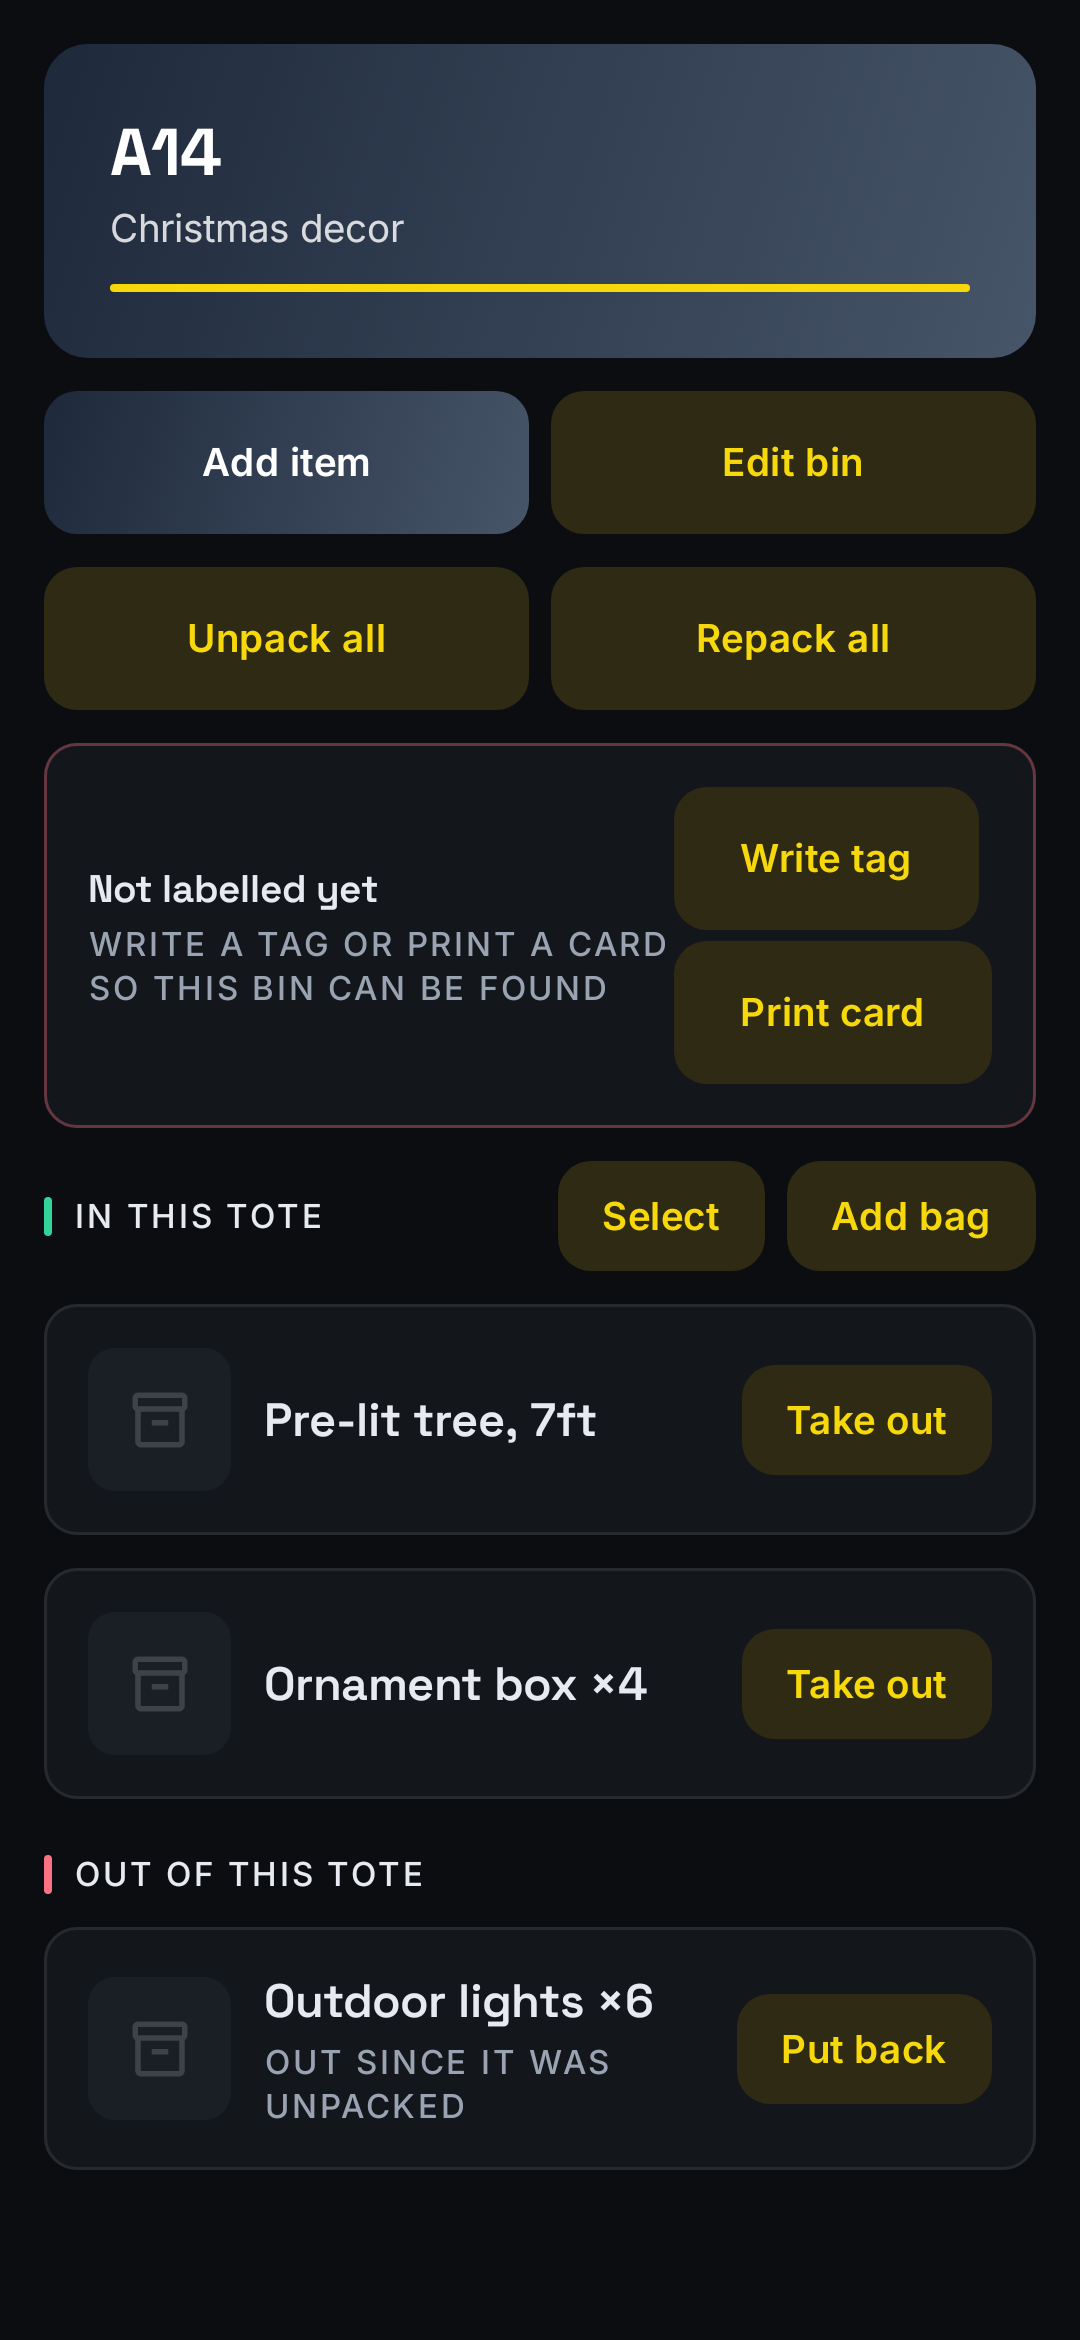
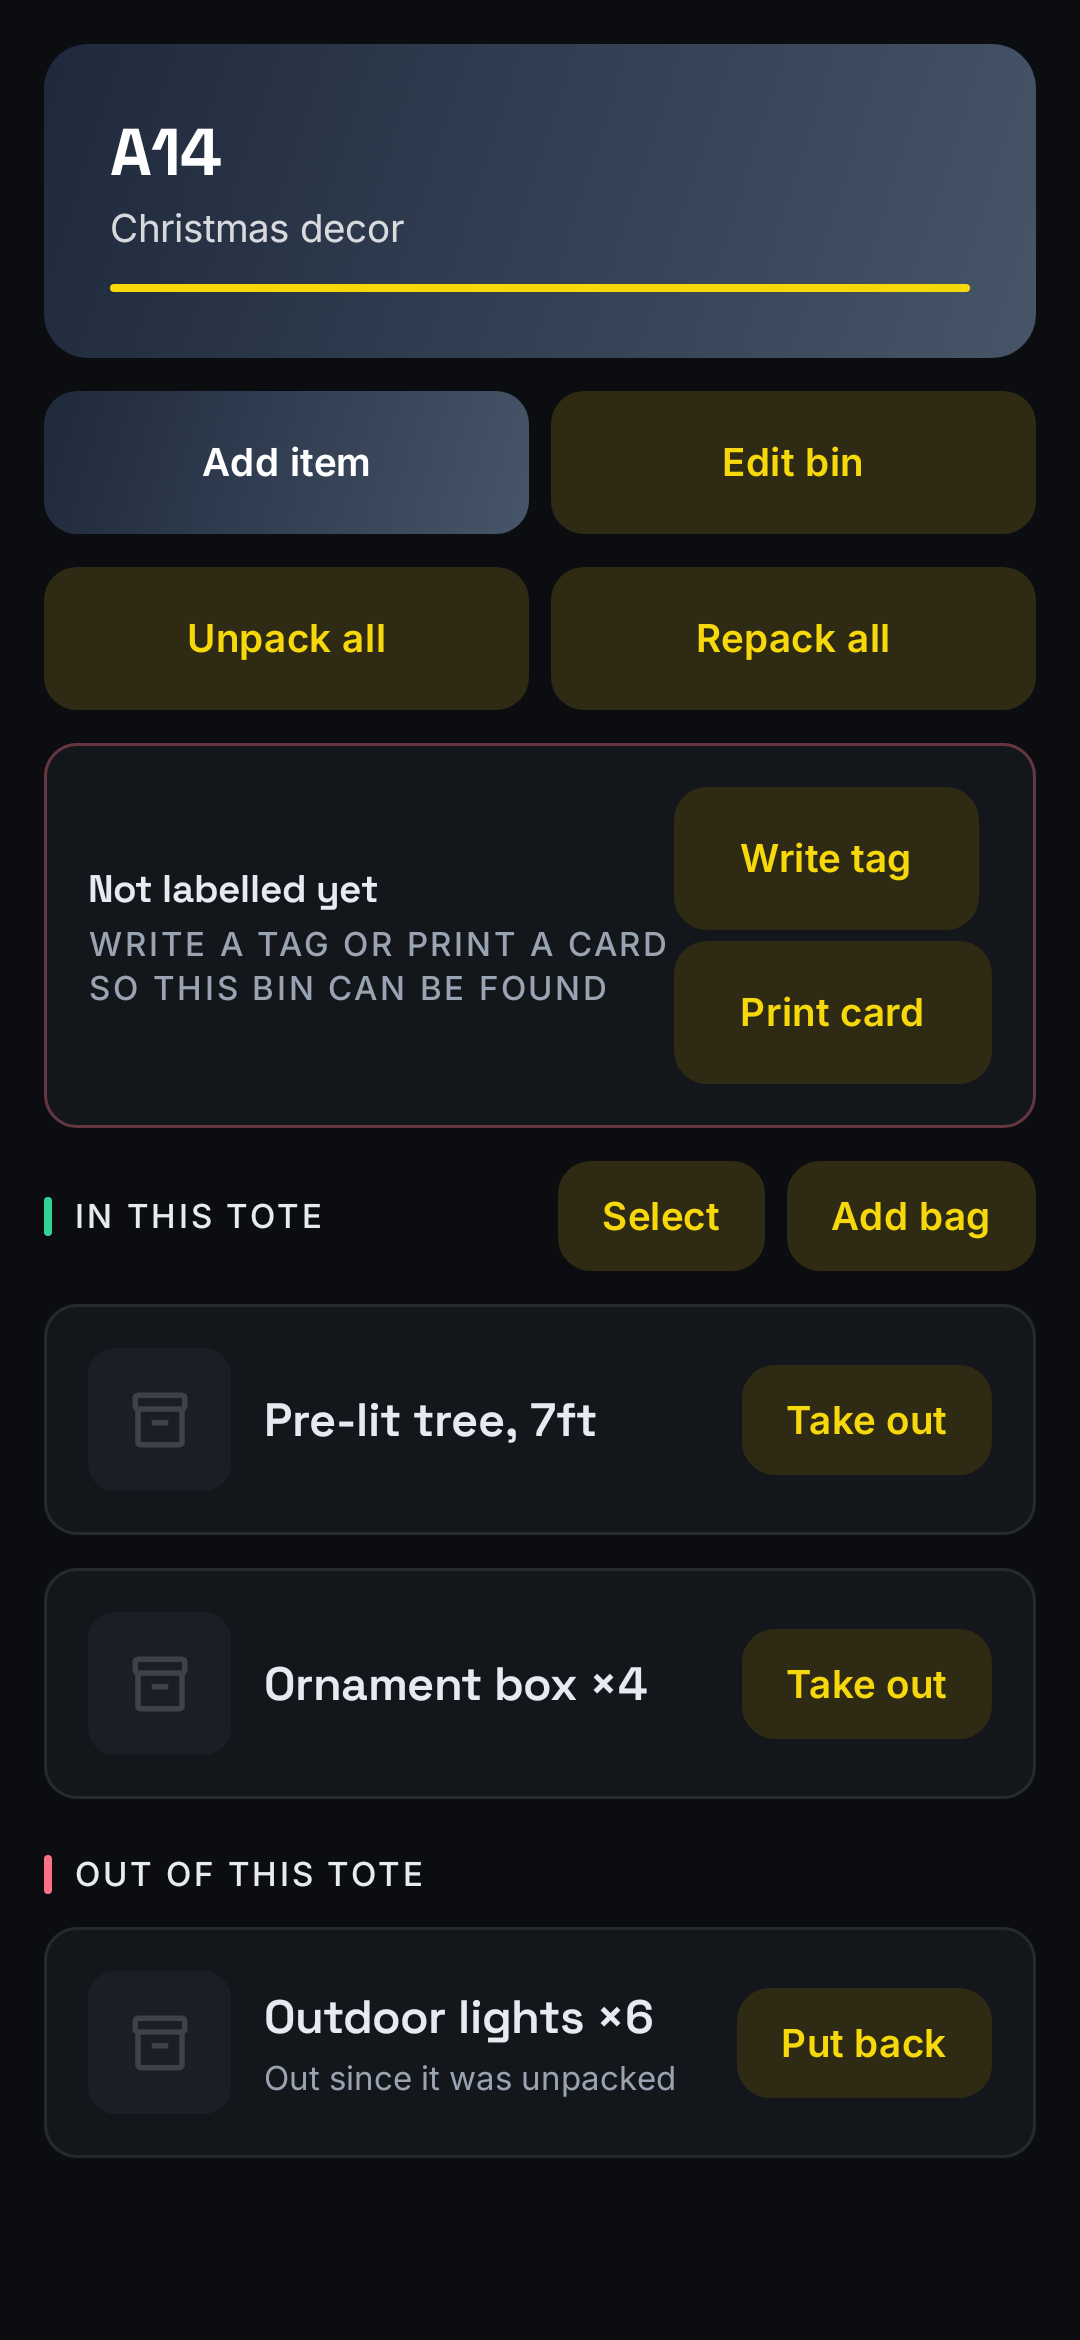
Bare infant months on the ladder; the bin row tells its garments apart
Both found by reading the owner's real catalogue, not by a test.

`3m`, `6m` and `9m` were missing from `_INFANT_MONTHS`, left out on the
reasoning that infant clothing is sold in ranges — while `12M`/`18M`/`24M`
were bare points from the start, so the table disagreed with itself as well
as with the world. Four garments in the first real bin of baby clothes were
typed `6m`, parsed to nothing and were therefore invisible to `fits`: the
silent failure the ladder exists to prevent. The new points are the midpoints
of the ranges either side of them, `36m` lands where `3T` does, and two tests
pin the twelve-rung ordering as strictly increasing and all distinct.

On the bin screen every row read `Shirt` with a thumbnail. The sentence that
tells them apart was on the DTO and rendered only inside the item sheet, one
tap away on each of them. It is on the row now, two lines of it — twenty
characters does not separate "Navy blue sleeves…" from "Navy blue with
white…" — and the size is its own mark rather than the first words of the
grey caption it shared with the loan status. Which also removes the reason
people were typing the size into the name.

311 server tests, 174 Android. New baselines in both themes: the light one
separately, because the size mark is the first place the provenance violet
carries text at data-type size.

Claude-Session: https://claude.ai/code/session_01VgWuH4CggxCGnsHqaYpVUL

Changed region(s): [[0.2444, 0.8423, 0.6111, 0.9047], [0.7028, 0.8423, 0.8861, 0.9047], [0.1222, 0.8423, 0.1833, 0.9047]]

diff --git a/android/app/src/main/java/com/tote/ui/totes/ToteDetailScreen.kt b/android/app/src/main/java/com/tote/ui/totes/ToteDetailScreen.kt
@@ -791,15 +791,48 @@ private fun ItemRow(
                     item.status == "out" -> "Out since it was unpacked"
                     else -> null
                 }
-                // The tag's own words, joined to the status rather than stacked under it. This
-                // is the line someone reads while holding an open bin, and every extra row on it
-                // costs a garment's worth of scrolling.
-                val sub = listOfNotNull(item.apparel?.sizeRaw, status).joinToString(" · ")
-                if (sub.isNotEmpty()) {
+                // The description, on the row at last.
+                //
+                // It was carried on every DTO and shown only inside the item sheet, which is fine
+                // until a bin holds six garments all honestly called "Shirt". As text those rows
+                // were identical and only the thumbnail told them apart; the sentence that DOES
+                // tell them apart — "yellow and green construction digger" — was one tap away on
+                // each of them. Found on the owner's first real bin of baby clothes.
+                //
+                // Two lines, for the same reason the name gets two: the thumbnail, the size and the
+                // action leave this column about twenty characters wide, and one line of that is
+                // "Navy blue sleeves, li…" against "Navy blue with white s…" — which is the failure
+                // this line exists to prevent, just moved a few words later. It only costs height
+                // on the rows whose descriptions are long enough to need it.
+                val detail = listOfNotNull(status, item.description).joinToString(" · ")
+                if (detail.isNotEmpty()) {
                     Spacer(Modifier.height(spacing.xs))
-                    Caption(text = sub)
+                    Text(
+                        detail,
+                        style = MaterialTheme.typography.bodySmall,
+                        color = MaterialTheme.colorScheme.onSurfaceVariant,
+                        maxLines = 2,
+                        overflow = TextOverflow.Ellipsis,
+                    )
                 }
             }
+            // The size, as its own mark rather than the first word of a caption.
+            //
+            // For a bin of children's clothing this is the single most-read fact on the screen —
+            // the whole app exists to answer "which bin has the 4T coats" — and it was competing
+            // with the loan status in a dim grey run-on line. Prominent enough here that the size
+            // does not need repeating in the name, which is what was happening: "Shirt 12m" over
+            // a caption reading "12M".
+            item.apparel?.sizeRaw?.let { size ->
+                Spacer(Modifier.width(spacing.sm))
+                Text(
+                    size,
+                    style = ToteTheme.dataType.dataSmall,
+                    color = colors.provenance.base,
+                    maxLines = 1,
+                )
+            }
+
             // ONE action on the row — the everyday one. Lending and deleting live in the
             // sheet behind a tap: a second button here costs the name the width it needs, and
             // a destructive action next to an everyday one is a mis-tap away from deleting a

diff --git a/android/app/src/test/java/com/tote/screenshot/ScreenshotTest.kt b/android/app/src/test/java/com/tote/screenshot/ScreenshotTest.kt
@@ -957,6 +957,62 @@ class ScreenshotTest {
         )
     }
 
+
+    /**
+     * The bin the owner actually built: six garments honestly called "Shirt", told apart only by
+     * the sentence that was one tap away on each of them.
+     */
+    @Test fun tote_detail_same_name_dark() = capture("tote_detail_same_name_dark", dark = true) {
+        ToteDetailContent(
+            tote = sameNameBin(),
+            onAddItem = {}, onUnpackAll = {}, onRepackAll = {}, onTakeOut = {}, onPutBack = {},
+        )
+    }
+
+    /**
+     * The same bin in light.
+     *
+     * Worth its own baseline rather than trusting the dark one: the size mark is the first place
+     * the provenance violet carries *text* at data-type size, and the two themes are separate
+     * channel palettes — a ratio that holds against charcoal says nothing about one against white.
+     */
+    @Test fun tote_detail_same_name_light() = capture("tote_detail_same_name_light", dark = false) {
+        ToteDetailContent(
+            tote = sameNameBin(),
+            onAddItem = {}, onUnpackAll = {}, onRepackAll = {}, onTakeOut = {}, onPutBack = {},
+        )
+    }
+
+    private fun sameNameBin() = ToteDetailDto(
+        id = "t1",
+        code = "A15",
+        label = "Baby clothes",
+        locationName = "Attic",
+        itemCount = 4,
+        items = listOf(
+            ItemDto(
+                id = "a", name = "Shirt", quantity = 1, status = "stored",
+                description = "Yellow and green construction digger graphic",
+                apparel = ApparelDto(sizeRaw = "12m"),
+            ),
+            ItemDto(
+                id = "b", name = "Shirt", quantity = 1, status = "stored",
+                description = "Navy blue sleeves, light grey body",
+                apparel = ApparelDto(sizeRaw = "12m"),
+            ),
+            ItemDto(
+                id = "c", name = "Onesie", quantity = 1, status = "stored",
+                description = "Red, printed text reading LADIES MAN",
+                apparel = ApparelDto(sizeRaw = "12m"),
+            ),
+            ItemDto(
+                id = "d", name = "Shorts", quantity = 6, status = "stored",
+                description = "Navy blue with white stripes down the side",
+                apparel = ApparelDto(sizeRaw = "6m"),
+            ),
+        ),
+    )
+
     // LoginContent is the stateless body precisely so it can be captured here: the stateful
     // LoginScreen needs Hilt and a real AppAuth service, neither of which exists in a JVM test.
     @Test fun login_light() =

diff --git a/server/tests/test_sizing.py b/server/tests/test_sizing.py
@@ -46,6 +46,15 @@ PARSES = [
     ("12M", None, SYSTEM_INFANT_MONTHS),
     ("18 mo", None, SYSTEM_INFANT_MONTHS),
     ("24M", None, SYSTEM_INFANT_MONTHS),
+    # Bare month points. These were missing while 12M/18M/24M were present, on the reasoning that
+    # infant clothing is sold in ranges — found in production with four garments typed "6m"
+    # parsing to nothing, so `fits` could not see them.
+    ("3m", None, SYSTEM_INFANT_MONTHS),
+    ("6m", None, SYSTEM_INFANT_MONTHS),
+    ("9M", None, SYSTEM_INFANT_MONTHS),
+    ("6 months", None, SYSTEM_INFANT_MONTHS),
+    ("15M", None, SYSTEM_INFANT_MONTHS),
+    ("36 mo", None, SYSTEM_INFANT_MONTHS),
     ("2T", None, SYSTEM_TODDLER),
     ("3t", None, SYSTEM_TODDLER),
     ("4T", None, SYSTEM_TODDLER),
@@ -336,3 +345,25 @@ def test_photo_role_rank_keeps_the_tag_last():
     # An unknown role sorts ahead of the tag, so pre-roles items keep their original order.
     assert photo_role_rank(None) < photo_role_rank("tag")
     assert photo_role_rank("something-new") == photo_role_rank(None)
+
+
+def test_a_bare_month_sits_between_the_ranges_either_side_of_it():
+    """The ranges were already the midpoints of points that did not exist.
+
+    3-6m is 0.375 because it sits between 3m (0.25) and 6m (0.5). Adding the bare points had to
+    preserve that or an item typed "6m" would sort on the wrong side of one typed "3-6m", which
+    is worse than not parsing at all — a wrong ordinal sends someone to the wrong bin twice.
+    """
+    order = ["NB", "0-3m", "3m", "3-6m", "6m", "6-9m", "9m", "9-12m", "12m", "15m", "18m", "24m"]
+    ordinals = [parse_size(raw).ordinal for raw in order]
+    assert ordinals == sorted(ordinals), ordinals
+    assert len(set(ordinals)) == len(ordinals), "every rung is distinct"
+
+
+def test_36_months_lands_where_3T_does():
+    """One shared axis is the whole point: the same body gets the same ordinal whichever system
+    the tag happens to use."""
+    assert parse_size("36m").ordinal == parse_size("3T").ordinal
+    # But the SYSTEM is still reported honestly — they are not the same garment vocabulary.
+    assert parse_size("36m").system == SYSTEM_INFANT_MONTHS
+    assert parse_size("3T").system == SYSTEM_TODDLER

diff --git a/server/app/sizing/ladder.py b/server/app/sizing/ladder.py
@@ -103,15 +103,30 @@ _COMPARABLE_PAIRS: frozenset[frozenset[str]] = frozenset(
 # Children's ordinals ARE approximate age in years. Written out rather than computed so the
 # 6X row can exist at all, and so every value is reviewable against a tag.
 
+# The axis is years of approximate body size, so 12m is 1.0 and the RANGES are the midpoints of
+# the bare points either side of them: 3-6m sits at 0.375 between 3m (0.25) and 6m (0.5).
+#
+# The bare points used to be missing for 3, 6 and 9 months, on the reasoning that infant clothing
+# is sold in ranges. Real tags and real people do not agree: found in production with four garments
+# typed "6m" and parsing to nothing, which meant `fits` could not see them at all — the silent
+# failure the whole ladder exists to prevent. 12m/18m/24m were already here, so the table was
+# inconsistent with itself as well as with the world.
 _INFANT_MONTHS: dict[str, float] = {
     "nb": 0.0,
     "0-3m": 0.125,
+    "3m": 0.25,
     "3-6m": 0.375,
+    "6m": 0.5,
     "6-9m": 0.625,
+    "9m": 0.75,
     "9-12m": 0.875,
     "12m": 1.0,
+    "15m": 1.25,
     "18m": 1.5,
     "24m": 2.0,
+    # Written on some tags instead of 3T, and it lands on the same ordinal 3T does — which is
+    # the point of one shared axis.
+    "36m": 3.0,
 }
 
 _TODDLER: dict[str, float] = {"2t": 2.0, "3t": 3.0, "4t": 4.0, "5t": 5.0}
@@ -198,9 +213,14 @@ _MONTH_ALIASES = {
     "3_6_months": "3-6m",
     "6_9_months": "6-9m",
     "9_12_months": "9-12m",
+    "3_months": "3m",
+    "6_months": "6m",
+    "9_months": "9m",
     "12_months": "12m",
+    "15_months": "15m",
     "18_months": "18m",
     "24_months": "24m",
+    "36_months": "36m",
 }
 
 # Departments that make a bare number unambiguous. See `parse_size`.

diff --git a/ARCHITECTURE.md b/ARCHITECTURE.md
@@ -1563,6 +1563,26 @@ department there is nothing in the string to tell them apart, so `parse_size` re
 to the bin, a wrong ordinal sends them to the wrong bin twice. A department resolves it (`8` under
 `girls` is a youth 8) because that is evidence, not a guess.
 
+### A bare month is not the same trade — it was a hole
+
+`3m`, `6m` and `9m` were **missing** from `_INFANT_MONTHS`, on the reasoning that infant clothing
+is sold in ranges (`0-3M`, `3-6M`). Real tags and real people do not agree, and the table was
+already inconsistent with itself: `12M`, `18M` and `24M` were bare points from the start.
+
+Found in production, which is the part worth recording. Four garments in the owner's first real
+bin of baby clothes were typed `6m`, parsed to nothing, and were therefore invisible to `fits` —
+the exact silent failure the ladder exists to prevent, and one nothing in CI could have caught
+because it needs somebody to type what is on an actual tag.
+
+The bare points are the **midpoints of the ranges either side of them**: `3-6m` sits at 0.375
+between `3m` (0.25) and `6m` (0.5), so a range and its endpoints interleave in tag order rather
+than colliding. `36m` is here too — some tags say it instead of `3T` — and it lands on the same
+ordinal `3T` does, which is the point of one shared axis. Two tests pin exactly that: that the
+twelve infant rungs are strictly increasing and all distinct, and that `36m` and `3T` agree.
+
+Unlike the bare number above, this is **not** a designed under-read. `6m` is unambiguous; there
+was simply no row for it.
+
 ## Name-first capture: the question you do not ask
 
 The scan makes two vision calls for a garment — the omnibus `identify_item` and the narrow
@@ -1671,10 +1691,29 @@ actually matters.
 
 ### The tag's own words go where people look
 
-`size_raw` rides on the **same caption line** as the bin on a search hit, and beside the status
-on a tote-detail row. Not a row of its own: the question someone is asking is "which bin", and a
-second line competes with the answer while costing a garment's worth of scrolling in a list they
-are reading with an open bin in front of them.
+`size_raw` rides on the **same caption line** as the bin on a search hit. On a **tote-detail row**
+it is now its own element instead — `dataSmall`, in the provenance violet, between the text column
+and the action button.
+
+That changed after looking at a real bin. On a screen of children's clothing the size is the
+single most-read fact — the whole app exists to answer "which bin has the 4T coats" — and it was
+the first words of a dim grey run-on caption it shared with the loan status. Two consequences, one
+of them the point: it is legible at a glance, and it is prominent enough that **the size does not
+need repeating in the name**, which is what people were doing (`Shirt 12m` above a caption reading
+`12M`).
+
+The row's second line is now the item's **description**, and up to two lines of it. It was carried
+on every DTO and shown only inside the item sheet, which is fine until a bin holds six garments all
+honestly called "Shirt": as text those rows were identical, only the thumbnail told them apart, and
+the sentence that *does* tell them apart was one tap away on each of them. Two lines rather than
+one because the thumbnail, the size and the action leave that column about twenty characters wide,
+and one line of it is `Navy blue sleeves, li…` against `Navy blue with white s…` — the same failure,
+moved a few words later. Height is only spent on the rows whose descriptions need it.
+
+`tote_detail_same_name_dark` / `_light` are the baselines for exactly this, six near-identical rows
+in one frame. The light one is separate on purpose: the size mark is the first place the provenance
+violet carries *text* at data-type size, and a ratio that holds against charcoal says nothing about
+one against white.
 
 ### The review form states both outcomes, and neither is a fault
 

diff --git a/CLAUDE.md b/CLAUDE.md
@@ -18,7 +18,7 @@ against production — not just green in CI.
 | | Status |
 |---|---|
 | Live at | `https://dragonfly.tail2ce561.ts.net:8448` (tailnet only) |
-| Tests | **255 server** (pytest, real Postgres) + **133 Android** (measured 2026-08-17) |
+| Tests | **311 server** (pytest, real Postgres) + **174 Android** (measured 2026-08-17) |
 | CI/CD | green; every push to `main` deploys, `notify.yml` pages `tote-alerts` on red |
 
 ### The next task
@@ -838,6 +838,30 @@ one destructive action here removes photographs that cannot be retaken.
 Client: `selection` is a **nullable set** — null is not-selecting, empty is selecting-with-nothing
 — so the screen cannot disagree with itself. While selecting a tap ticks rather than opens, and
 the per-row button disappears because the bar owns the verbs.
+
+
+**A bare month, and six rows called "Shirt" (#36).** Both found by reading the owner's real
+catalogue rather than by any test.
+
+**`3m`, `6m` and `9m` were missing from the infant ladder.** They were left out on the reasoning
+that infant clothing is sold in ranges — but `12M`/`18M`/`24M` were bare points from the start, so
+the table was inconsistent with itself as well as with the world. Four garments in the first real
+bin of baby clothes were typed `6m`, parsed to nothing, and were **invisible to `fits`**: the exact
+silent failure the ladder exists to prevent, and one CI could never have caught, because it needs
+somebody to type what is printed on an actual tag. The bare points are the midpoints of the ranges
+either side of them, `36m` lands where `3T` does, and two tests pin the whole twelve-rung ordering.
+
+**The bin screen showed the same six words six times.** Every row was `Shirt` with a thumbnail;
+the sentence that told them apart — "yellow and green construction digger" — was carried on the
+DTO and rendered only inside the item sheet, one tap away on each of them. The description is on
+the row now, two lines of it (twenty characters is not enough to separate "Navy blue sleeves…"
+from "Navy blue with white…"), and the **size is its own mark** rather than the first words of the
+grey caption it shared with the loan status. Which also removes the reason people were typing the
+size into the name.
+
+Measured while looking, and worth keeping: filing garments **grouped** (`Shorts ×6`) ran at
+**36 s/garment** against **60 s** one row per garment — and that understates it, because the
+grouped rows came first, against the learning curve.
 
 ---
 
